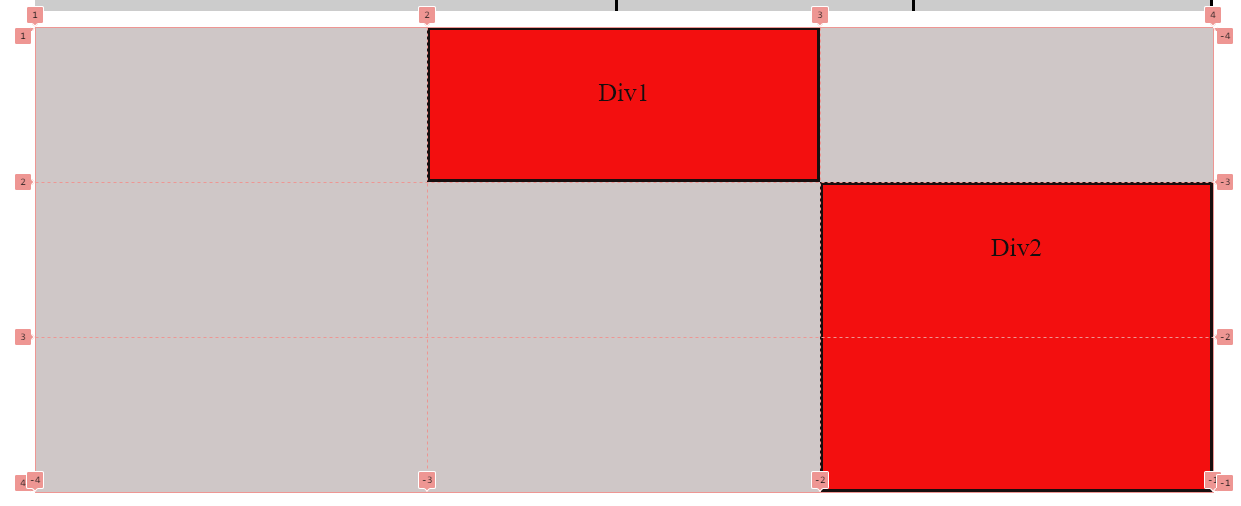
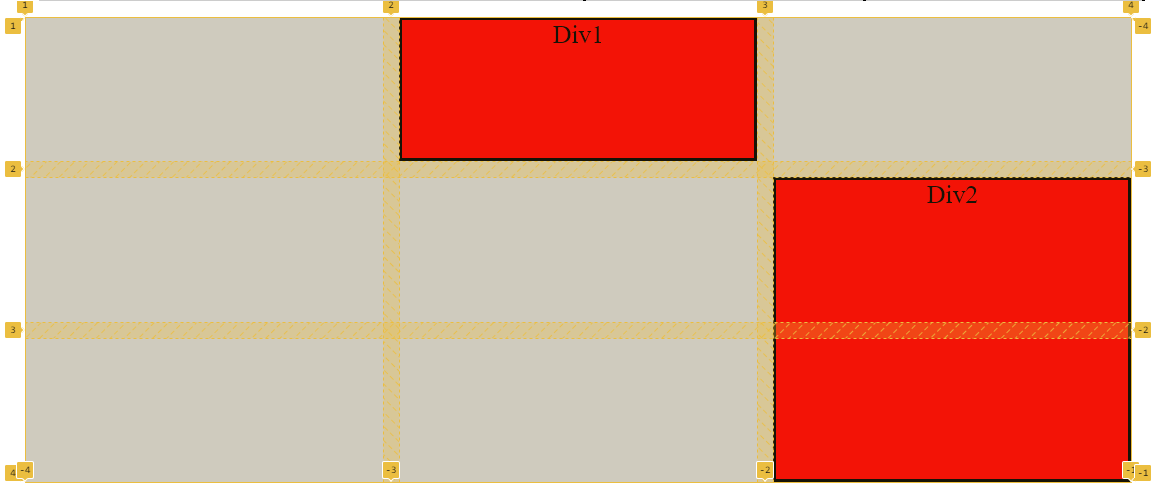
grid example comments

Changed region(s): [[0.0, 0.0, 0.994, 1.0], [0.4659, 0.1543, 0.528, 0.216], [0.8076, 0.463, 0.8387, 0.5247]]

diff --git a/src/comps/ui-basics/grid.jsx b/src/comps/ui-basics/grid.jsx
@@ -1,3 +1,5 @@
+import { highlights } from "../../App"
+
 export const Grid = () => {
     return (
         <article>
@@ -26,7 +28,7 @@ export const Grid = () => {
                     &#9;display: grid;<br />
                     &#9;grid-template-columns: 1fr 1fr 1fr;<br />
                     &#9;grid-template-rows: 1fr 1fr 1fr;<br />
-                    &#9;display: grid;<br />
+                    &#9;gap: 1rem;<br />
                     &#125;<br />
                 </code>
                 <code className="w-2/6">
@@ -37,20 +39,22 @@ export const Grid = () => {
                     &#125;
                 </code>
                 <code className="w-2/6">
+                    Schreibweise:<br />
+                    <span className={highlights.code}>start: 2, end: 3 oder grid-column/grid-row: 1/2</span><br />
                     .elem1 &#123;<br />
                     &#9;grid-column-start: 2;<br />
                     &#9;grid-column-end: 3;<br />
-                    &#9;grid-row-start: 1;<br />
-                    &#9;grid-row-end: 2;<br />
+                    &#9;grid-row: 1/2;<br />
                     &#125;<br />
                 </code>
                 <code className="w-2/6">
+                    Shorthand:<br />
+                    <span className={highlights.code}>grid-area: col-start/row-start / col-end/row-end</span><br />
                     .elem2 &#123;<br />
                     &#9;grid-area: 2/3/4/4;<br />
                     &#125;<br />
                 </code>
             </pre>
-            
             <div className="flex gap-5 pb-10 pt-5">
                 <a href="https://css-tricks.com/snippets/css/complete-guide-grid/" target="_blank" rel="noopener noreferrer">Grid Guide</a>
                 <a href="https://www.mediaevent.de/css/grid.html" target="_blank" rel="noopener noreferrer">Grid in vier Schritten</a>
